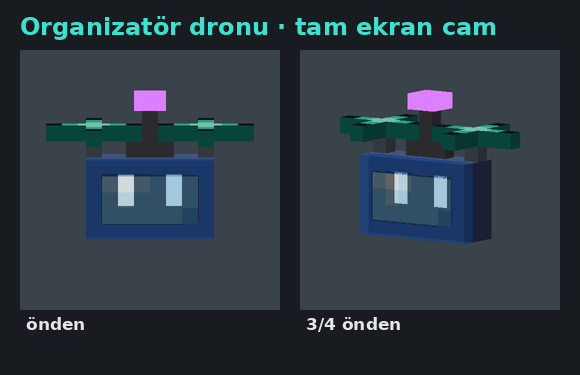
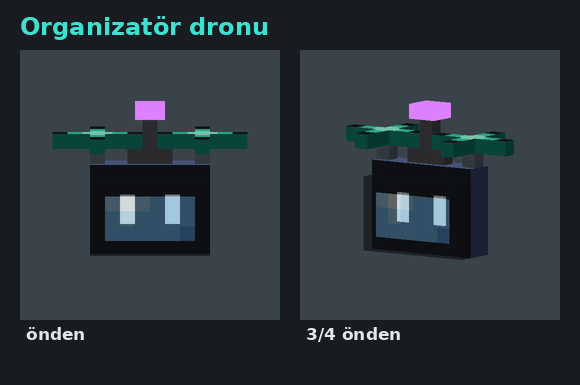
Organizatör evcil dronu: üstten 1 piksel uzun, mavi cam aynı, çevresinde 3/5 opak siyah çerçeve
Claude-Session: https://claude.ai/code/session_016dSUtqjRQFdnbyLYXoqgnG

diff --git a/aqualit/tasarim/evcil.py b/aqualit/tasarim/evcil.py
@@ -187,23 +187,23 @@ def kilicli(f):
 
 
 def organizator(f, cam=True):
-    # dik duran ince tablet (ekranı öne bakar); cam ekranın ardında Mimar dronundaki gibi gözler; üstte iki pervane
-    on = [list(r) for r in ('kkkkkkkk', 'kkWkkWkk', 'kkWkkWkk', 'kkkkkkkk', 'kkkkkkkk')]   # alttan 1 piksel kısa
-    kutu(f, 'g', 'tablet', (-4, 4, -1), (4, 9, 1), base='1', front=on, glow='WLP',
-         top=fill(8, 2, '3'), back=fill(8, 5, '2'))
-    # mavi cam bütün ön ekranı kaplar: ortası yarı saydam, çerçevesi daha opak (koyu mavi)
+    # dik duran ince tablet (8x6; üstten 1 piksel uzun), ekranı öne bakar; ortada yarı saydam mavi cam (6x3),
+    # camın çevresinde 3/5 opak siyah çerçeve; üstte iki pervane, kulaklık ve mikrofon anteni
+    on = [list(r) for r in ('kkkkkkkk', 'kkkkkkkk', 'kkWkkWkk', 'kkWkkWkk', 'kkkkkkkk', 'kkkkkkkk')]
+    kutu(f, 'g', 'tablet', (-4, 4, -1), (4, 10, 1), base='1', front=on, glow='WLP',
+         top=fill(8, 2, '3'), back=fill(8, 6, '2'))
     if cam:
         for nm, aa, bb in (('cer_u', (-4, 8, 1), (4, 9, 2)), ('cer_a', (-4, 4, 1), (4, 5, 2)),
                            ('cer_l', (-4, 5, 1), (-3, 8, 2)), ('cer_r', (3, 5, 1), (4, 8, 2))):
-            kutu(f, 'g', nm, aa, bb, base='@')
+            kutu(f, 'g', nm, aa, bb, base='k')
     if cam is True:
         kutu(f, 'g', 'cam', (-3, 5, 1), (3, 8, 2), base='<', front=rows('~9~<<<', '<~<<<<', '<<<<<^'))
     for ad, sx in (('l', -1), ('r', 1)):
-        kutu(f, 'g', 'direk_' + ad, (sx * 3.5 - 0.5, 9, -0.5), (sx * 3.5 + 0.5, 10, 0.5), base='%')
-        pervane(f, 'g', 'p_' + ad, (sx * 3.5, 10.5, 0), 3, 10.5)
-    kutu(f, 'g', 'kulaklik', (-1.5, 9, -0.5), (1.5, 10, 0.5), base='g')
-    kutu(f, 'g', 'mikrofon', (-0.5, 10, -0.5), (0.5, 12, 0.5), base='g')
-    kutu(f, 'g', 'mikrofon_uc', (-1, 12, -1), (1, 13, 1), base='P', glow='P')
+        kutu(f, 'g', 'direk_' + ad, (sx * 3.5 - 0.5, 10, -0.5), (sx * 3.5 + 0.5, 11, 0.5), base='%')
+        pervane(f, 'g', 'p_' + ad, (sx * 3.5, 11.5, 0), 3, 11.5)
+    kutu(f, 'g', 'kulaklik', (-1.5, 10, -0.5), (1.5, 11, 0.5), base='g')
+    kutu(f, 'g', 'mikrofon', (-0.5, 11, -0.5), (0.5, 13, 0.5), base='g')
+    kutu(f, 'g', 'mikrofon_uc', (-1, 13, -1), (1, 14, 1), base='P', glow='P')
 
 
 def portalci(f):
@@ -246,7 +246,7 @@ def poz(t, tur):
     return p
 
 
-CAM_ALFA, CERCEVE_ALFA = 0.5, 0.8   # cam ortası yarı saydam, çerçevesi daha opak
+CAM_ALFA, CERCEVE_ALFA = 0.5, 0.6   # cam yarı saydam; siyah çerçeve 3/5 opak, 2/5 saydam
 
 
 def ciz(tur, cam, t, M, C):
